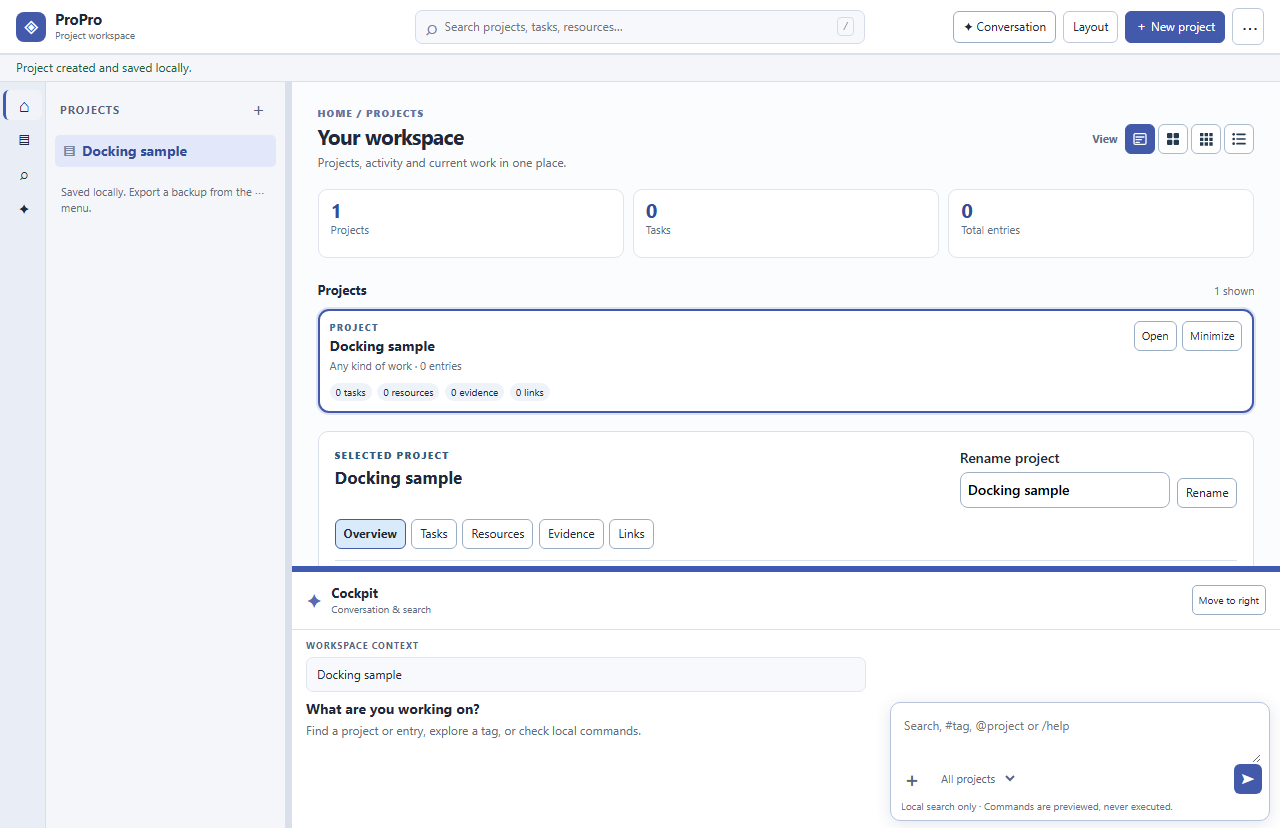
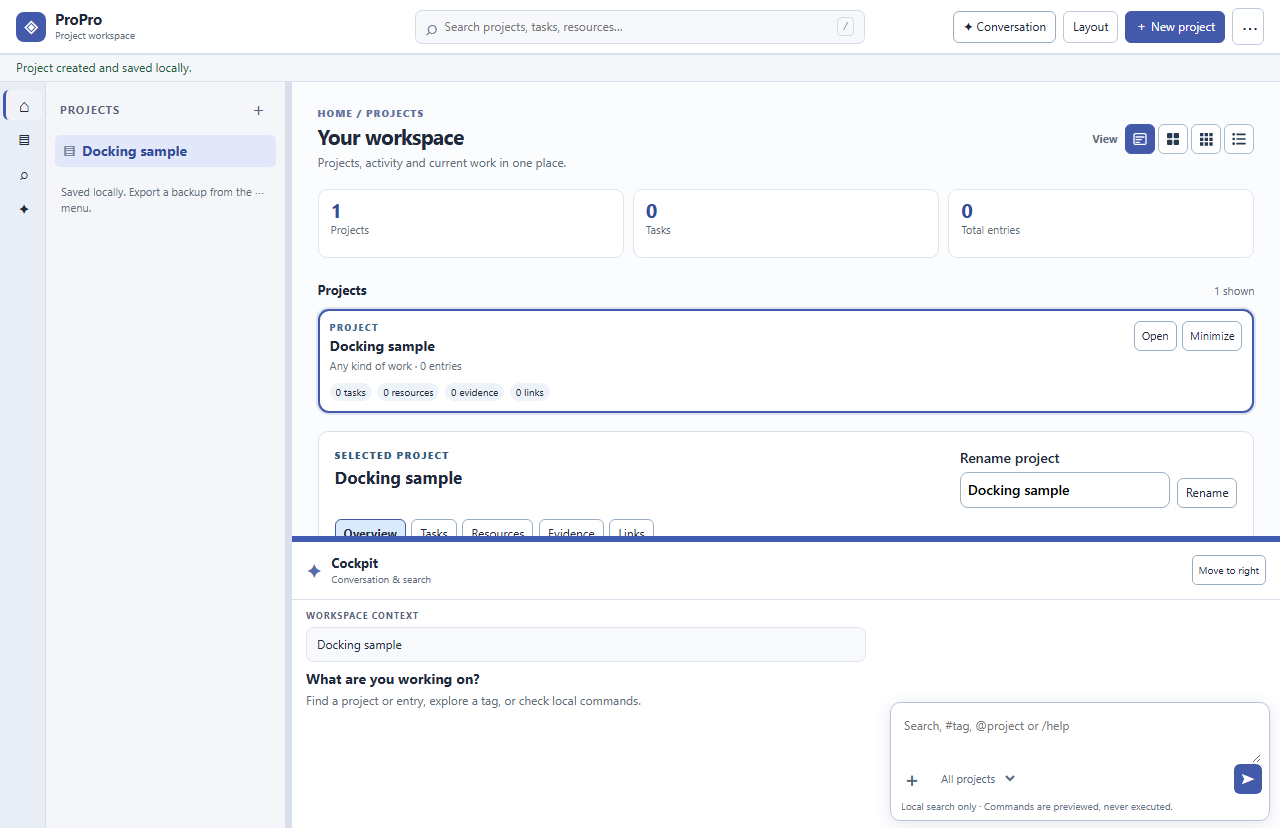
test(propro): verify pointer docking and narrow reflow
Change-Level: RUN

Dev-Docs: updated

Validation: focused Chromium docking test passes with pointer, keyboard, reload, reset and 390px overflow assertions

Changed region(s): [[0.2188, 0.6341, 1.0, 0.785], [0.2188, 0.8152, 0.5, 0.9058]]

diff --git a/docs/PROP-CKP-001B-IMPLEMENTATION.md b/docs/PROP-CKP-001B-IMPLEMENTATION.md
@@ -61,4 +61,4 @@ Running screenshots are captured at 375×900, 390×844, 768×900, 1280×800, 144
 
[1 lines of base64/hex data omitted]
 
-The composer now offers keyboard-operable `#` capability tags, `@` project references and `/` informational command suggestions. Suggestions use only local project data and the two informational previews. No CLI execution, web search, file search, AI provider or file transmission was added. The GUI package and ProPro remain independent through the versioned tarball boundary. Drag docking, arbitrary panel placement and detached windows remain open.
+The composer now offers keyboard-operable `#` capability tags, `@` project references and `/` informational command suggestions. Suggestions use only local project data and the two informational previews. No CLI execution, web search, file search, AI provider or file transmission was added. The GUI package and ProPro remain independent through the versioned tarball boundary. Pointer and keyboard resizing, reload restoration, reset, and 390px bottom-dock reflow were exercised in the browser. Drag docking, arbitrary panel placement and detached windows remain open.
